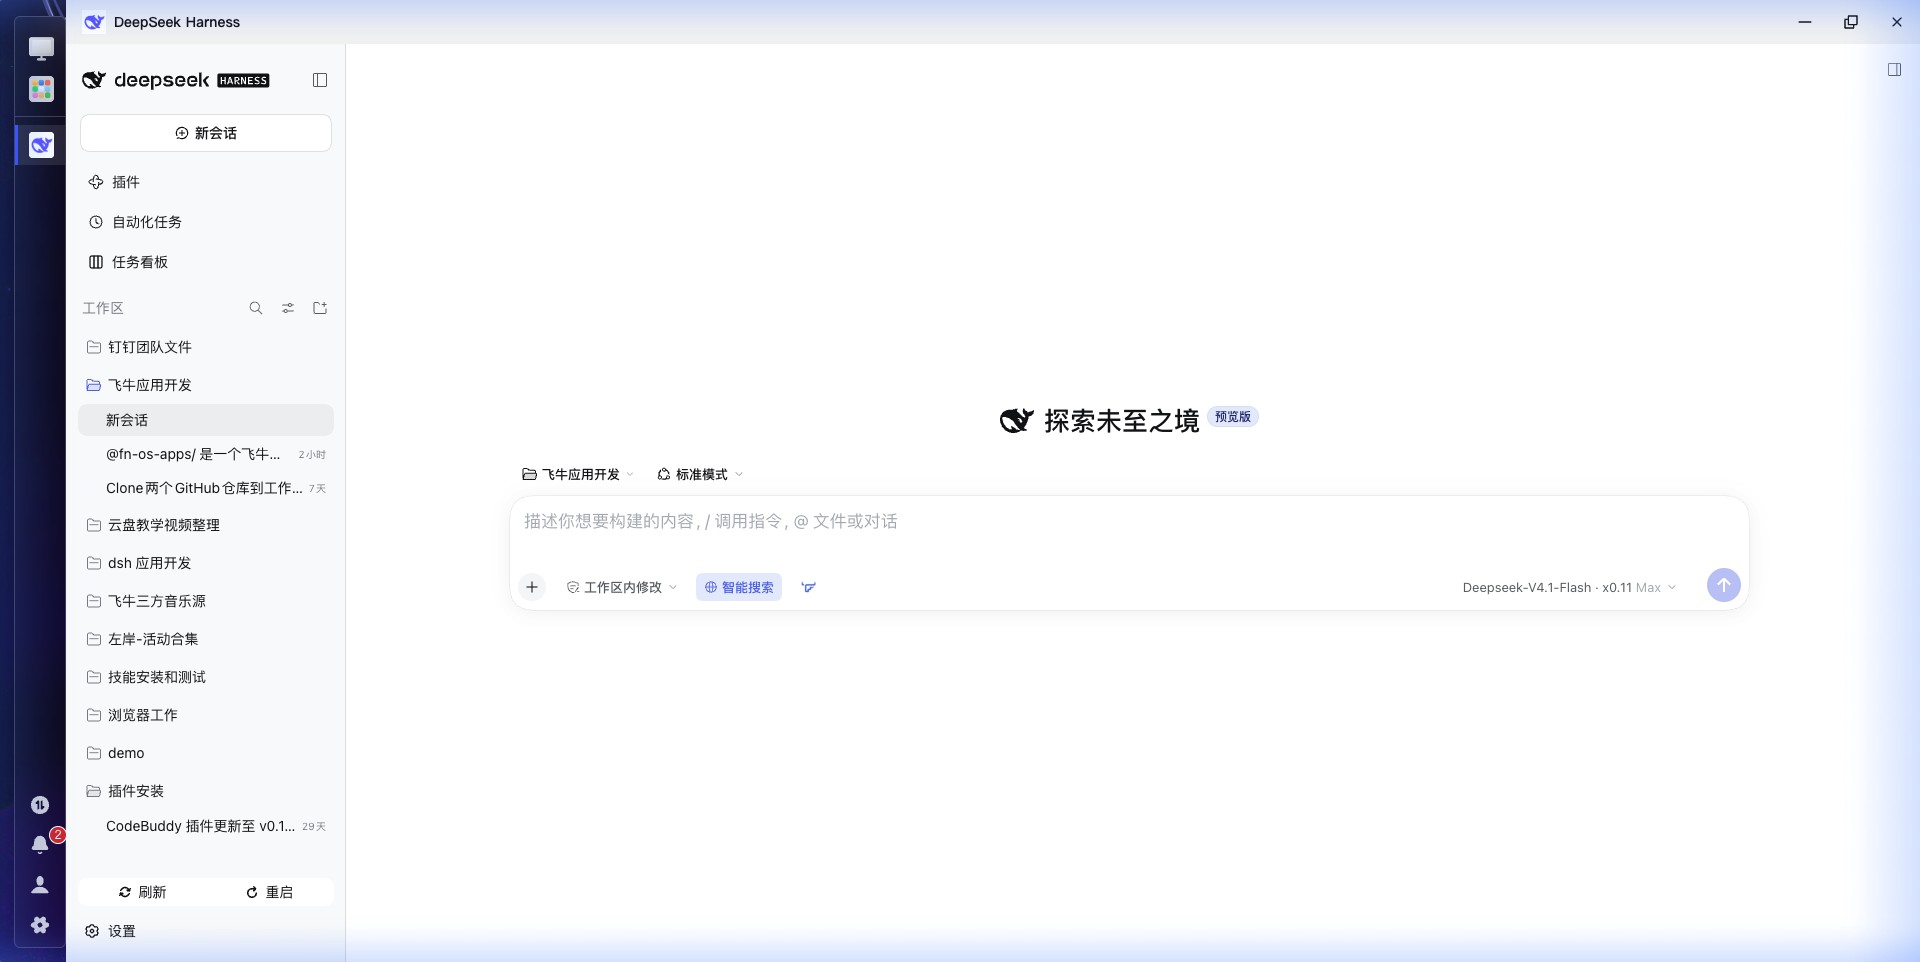
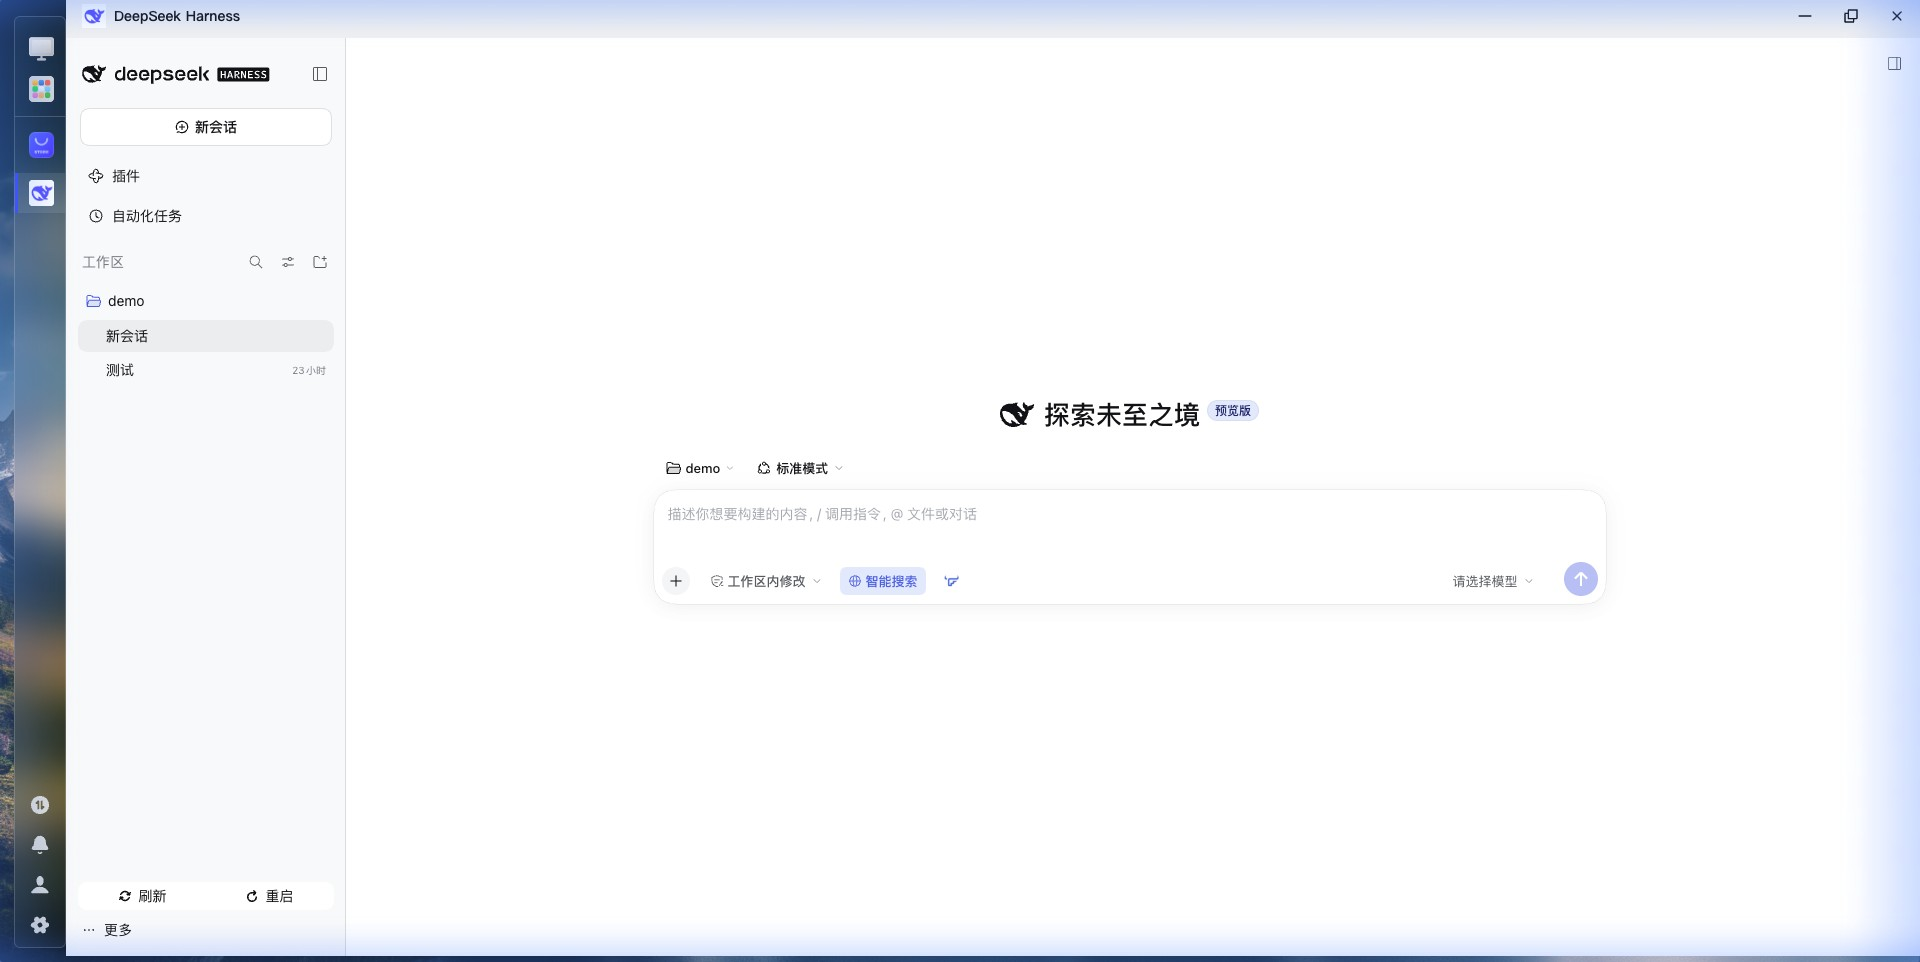
docs(plugins): 用 fnOS 真机重拍 dsh-fnos 插件截图
- 在 192.168.0.17 的 fnOS 应用框内（DSH iframe）拍摄，替换原先非本机环境的图
- 新增插件详情页，重拍授权目录管理页与宿主内运行首屏
- 重拍图隐藏真实工作区与会话名，避免泄露用户项目信息
- screenshots.json 补充至 5 张

diff --git a/docs/plugins/dsh-fnos.md b/docs/plugins/dsh-fnos.md
@@ -16,6 +16,9 @@ dsh plugin --profile web add @tnnevol/dsh-fnos@0.2.1-rc.2.10
 
 ![从 fnOS 应用入口打开的 DSH：应用框内运行，可读取 NAS 主题并调用目录授权](</images/plugins/dsh-fnos/hosted-in-fnos.jpg>)
 
+
+![fnOS 真机上的 dsh-fnos 插件详情页：运行状态、来源信息与授权目录入口](</images/plugins/dsh-fnos/plugin-detail.jpg>)
+
 文件授权和系统文件操作需要从 fnOS 应用入口打开 DSH。普通浏览器仍可使用 DSH 的基本功能，但无法调用 fnOS 的目录授权和系统文件操作。
 
 ```mermaid
@@ -47,7 +50,7 @@ flowchart TD
 - 填写后按 `Ctrl+S`（macOS 为 `⌘S`）可直接保存；
 - `/api`、`/plugins` 等网关保留路径不可用，保存时会给出提示。
 
-![fnOS 授权目录设置页](</images/plugins/dsh-fnos/authorized-directories.jpg>)
+![fnOS 真机上的授权目录管理：已授权目录、取消授权与第三方插件 proxy 前缀配置](</images/plugins/dsh-fnos/authorized-directories.jpg>)
 
 在 fnOS 中点击对话、工具结果或生成文件里的路径，可交由系统文件管理器打开。会话日志菜单支持下载到当前电脑，或导出到已授权的 NAS 目录。
 
